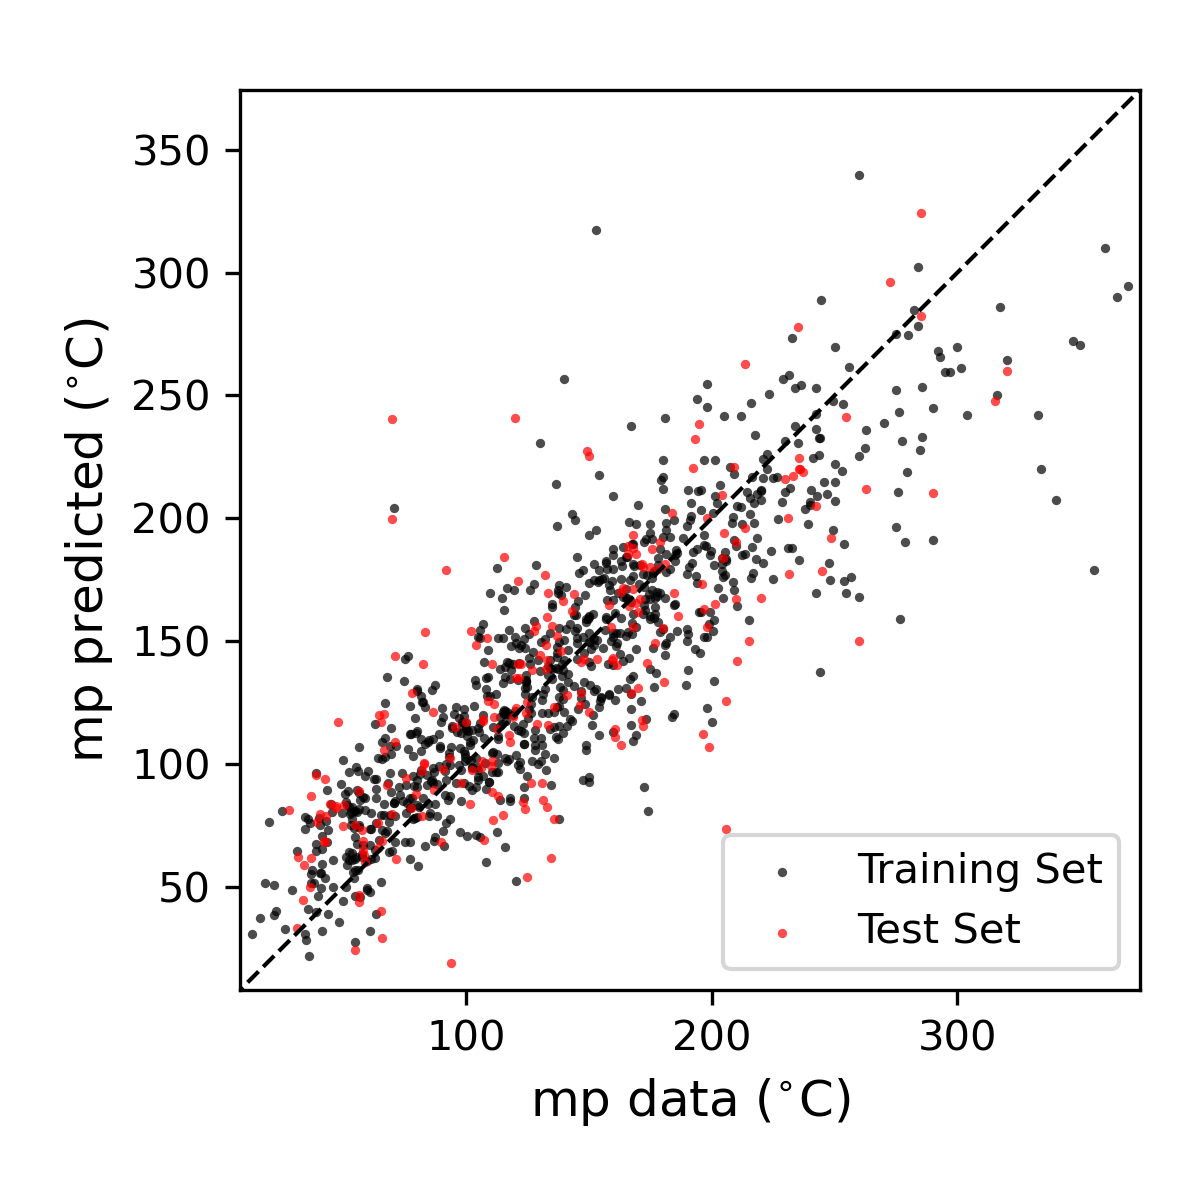
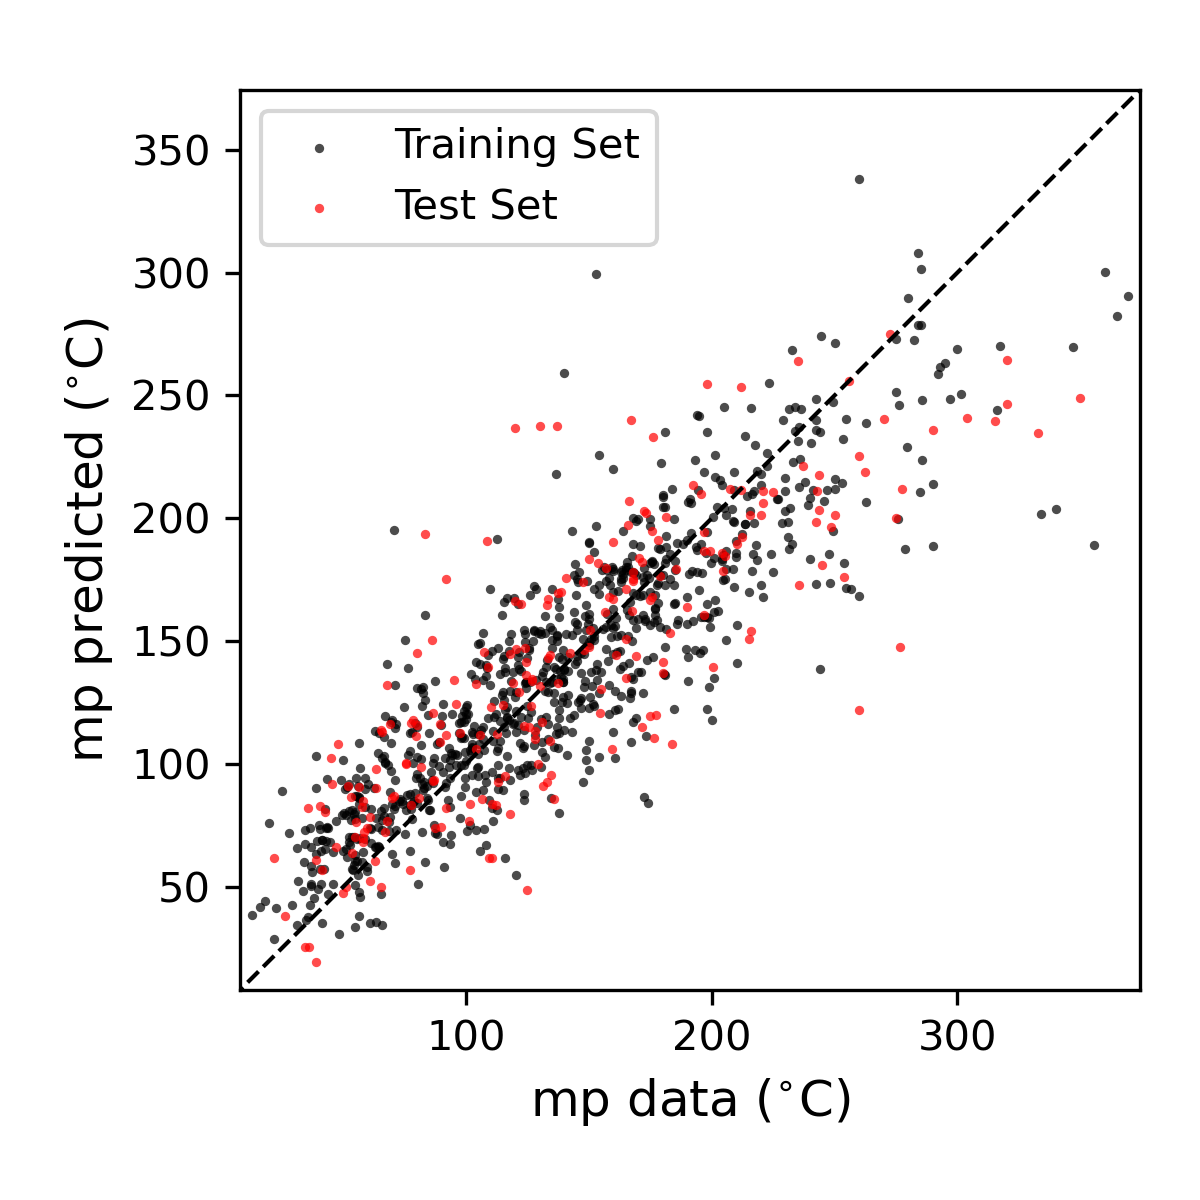
added slider for alpha

diff --git a/mp_prediction_paper.py b/mp_prediction_paper.py
@@ -420,15 +420,17 @@ r'''
 ### Machine Learning Model
 '''
 
+alpha=st.slider('alpha')
+
 # Quinone ML Plot
-ml_bq_dict=ml_model(ml_dataset_dict,'Quinones',100,False)
+ml_bq_dict=ml_model(ml_dataset_dict,'Quinones',alpha,False)
 
 ml_bq_dict['Plot'].savefig('ML_BQ_plot.png',dpi=300)
 st.write(ml_bq_dict['Plot'])
 st.markdown('''ML model for quinone dataset. Training set absolute average error is {:.2f} C and test set average absolute error is {:.2f} C. Training set RMSE is {:.2f} C and test set RMSE is {:.2f} C.'''.format(ml_bq_dict['Average Absolute Error'][1],ml_bq_dict['Average Absolute Error'][0],ml_bq_dict['RMSE Error'][1],ml_bq_dict['RMSE Error'][0]) )
 
 # Hydroquinone ML Plot
-ml_hq_dict=ml_model(ml_dataset_dict,'Hydroquinones',100,False)
+ml_hq_dict=ml_model(ml_dataset_dict,'Hydroquinones',alpha,False)
 ml_hq_dict['Plot'].savefig('ML_HQ_plot.png',dpi=300)
 st.write(ml_hq_dict['Plot'])
 st.markdown('''ML model for hydroquinone dataset. Training set absolute average error is {:.2f} C and test set average absolute error is {:.2f} C. Training set RMSE is {:.2f} C and test set RMSE is {:.2f} C.'''.format(ml_hq_dict['Average Absolute Error'][1],ml_hq_dict['Average Absolute Error'][0],ml_hq_dict['RMSE Error'][1],ml_hq_dict['RMSE Error'][0]) )
